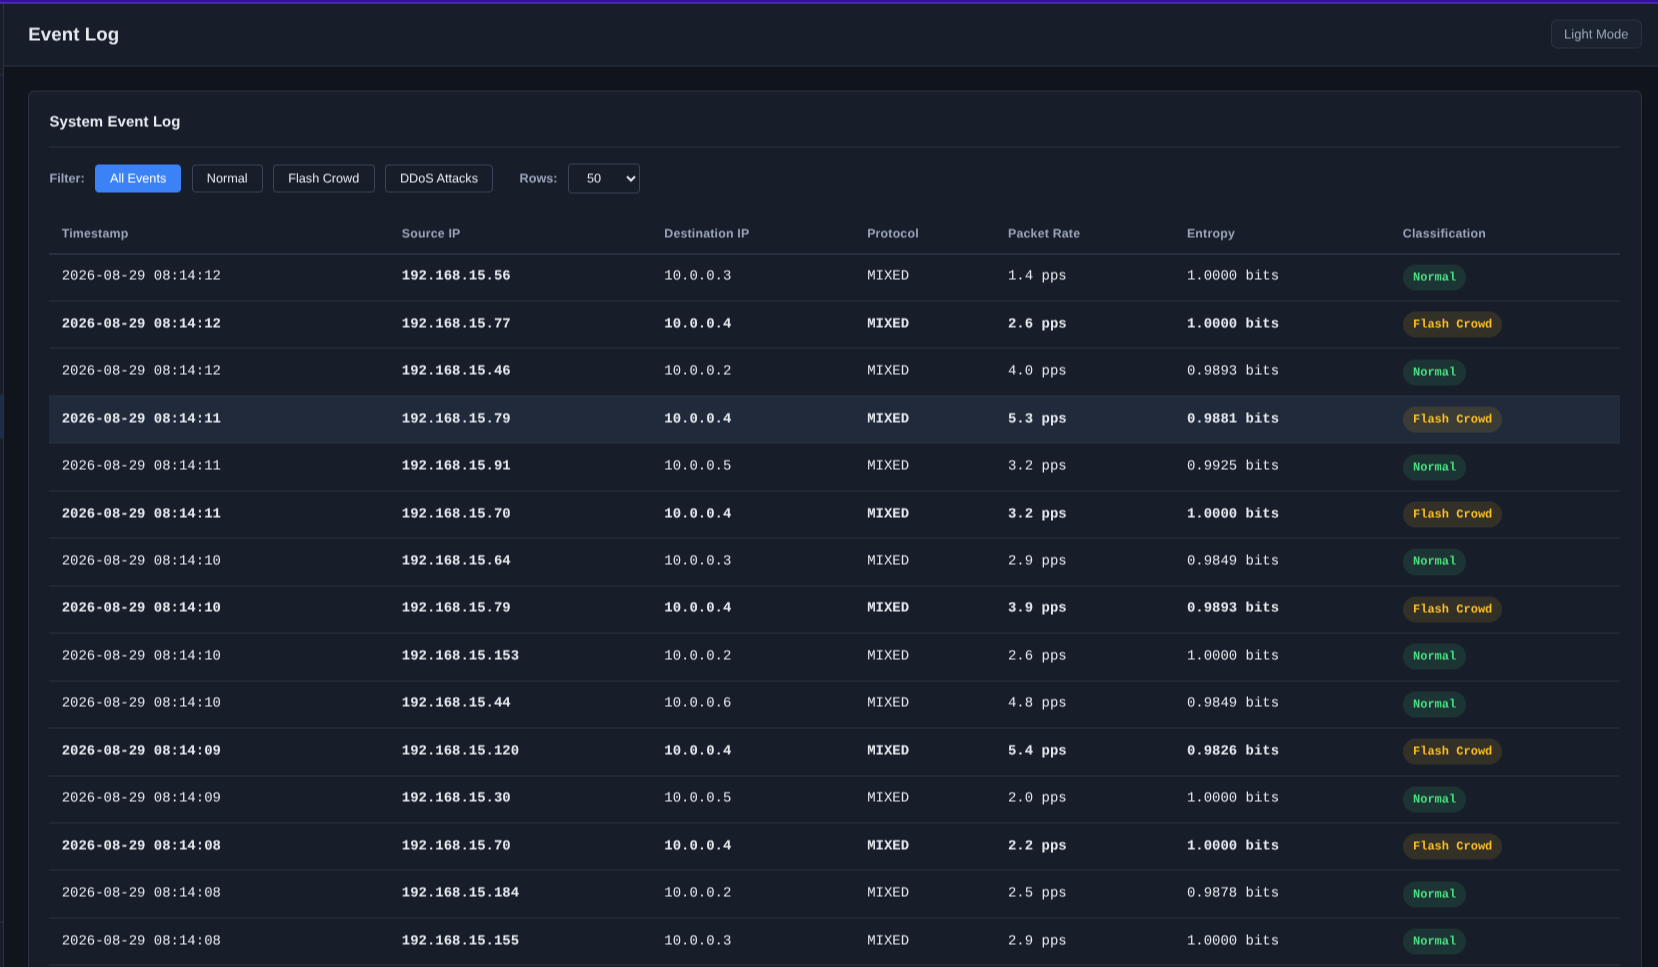
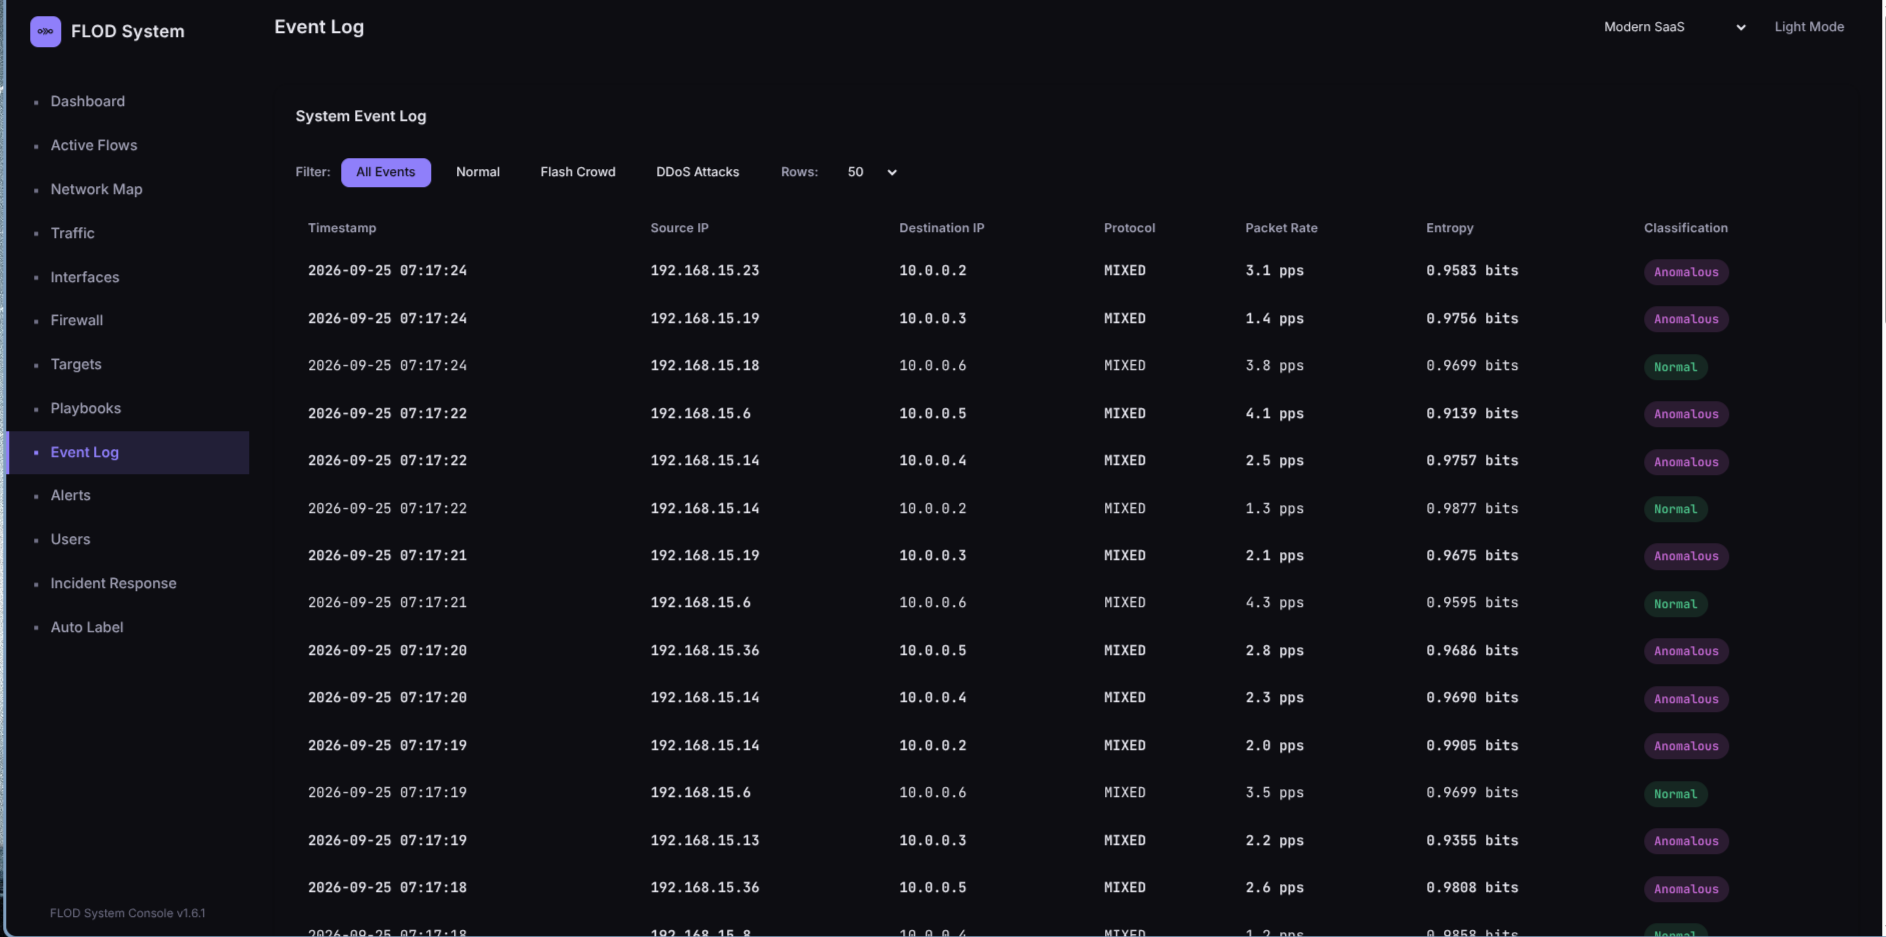
docs(V10): replace dashboard screenshots with the redesigned dashboard
Five existing screenshots replaced with real screenshots of the V10
dashboard (dark, Modern SaaS design family), provided directly by the
project owner: overview, target monitor, interfaces, firewall, event
log. Two captions corrected to match what the new screenshots actually
show rather than what the old ones did: the overview's five targets
are no longer all Normal (two Normal, three Anomalous), and the
firewall screenshot isn't mid-incident (no active blocks or rate
limits in frame), both reworded rather than left describing a scenario
the image no longer shows.

Four new screenshots added for pages that had no image anywhere
before this: Active Flows (docs/enforcement.md, after the four tiers
section), Playbooks (docs/playbooks.md, next to the run history
section it depicts), Alerts (docs/alerts.md, captioned honestly: it
only shows Discord and Email, taken before the Telegram/Custom Webhook
panels were confirmed against real credentials), and Users
(docs/security.md, in the Account Management section).

Still without a screenshot anywhere: login, network map, traffic
flow, incident response, and targets pages, none provided this round.

Changed region(s): [[0.0, 0.0, 1.0, 1.0], [0.9228, 0.6499, 0.9536, 0.6809]]

diff --git a/docs/enforcement.md b/docs/enforcement.md
@@ -122,12 +122,14 @@ windows before firing, so one noisy window cannot trigger a block. Tiers 3 and
 Both sets carry an expiry, so enforcement heals on its own if a decision was
 wrong.
 
+![The dashboard's Active Flows page: every live connection to a protected host, its own classification and mitigation status, and a manual Block or Whitelist action per source](images/dashboard-active-flows.png)
+
 ## Settings
 
 All of the below are editable live from the dashboard's Firewall page,
 which also shows active blocks and rate limits as they stand:
 
-![The dashboard's Firewall page mid-incident: active blocks and active rate limits, each with its own countdown to self-heal](images/dashboard-firewall.png)
+![The dashboard's Firewall page: whitelist, shared/NAT addresses, active blocks and active rate limits (each with its own countdown to self-heal when populated), and the editable enforcement thresholds below](images/dashboard-firewall.png)
 
 | Setting | Default | Meaning |
 |-|-|-|

diff --git a/docs/playbooks.md b/docs/playbooks.md
@@ -184,6 +184,8 @@ which stage it's on, why it started) with each run's own event list
 expandable inline, and the reports a `report` stage has generated so
 far.
 
+![The dashboard's Playbooks page: configured playbooks with enable/disable and edit controls, and run history below showing each run's host, source, status, and start time](images/dashboard-playbooks.png)
+
 The incident report (`/ir.html`, and any report a `report` stage
 generates) gains two sections from this milestone: a **timeline** of
 which stage fired when and against which source or host, and a

diff --git a/docs/alerts.md b/docs/alerts.md
@@ -13,6 +13,8 @@ exception, it sends synchronously and reports per-channel success or
 failure directly, since the entire point of a test button is immediate
 feedback on misconfiguration.
 
+![The dashboard's Alerts page, Discord and Email panels shown; the Telegram and Custom Webhook panels below them aren't pictured in this screenshot, taken before those channels were confirmed against real credentials](images/dashboard-alerts.png)
+
 ## When an alert fires
 
 On a victim's classification changing to or from DDoS, on every new

diff --git a/README.md b/README.md
@@ -9,7 +9,7 @@ An adaptive two stage Layer 4 volumetric DDoS mitigation gateway.
 **Project:** Adaptive Two Stage Framework for Near Real Time Layer 4 Volumetric
 DDoS Mitigation Using Behavioral Traffic Analysis
 
-![The FLOD dashboard overview, five protected targets, all reading Normal](docs/images/dashboard-overview.png)
+![The FLOD dashboard overview, five protected targets, two reading Normal and three flagged Anomalous](docs/images/dashboard-overview.png)
 
 
 ## What It Does

diff --git a/docs/security.md b/docs/security.md
@@ -274,6 +274,8 @@ cap or clean up on the way in.
 
 ## Account Management
 
+![The dashboard's Users page: existing accounts with per-account actions, and the Add Account / Change Password forms, both of which require the caller's own current password](images/dashboard-users.png)
+
 Creating an account, deleting one, or changing a password all require the
 caller to re enter their own current password, verified against the caller's
 stored hash rather than the target account's.
